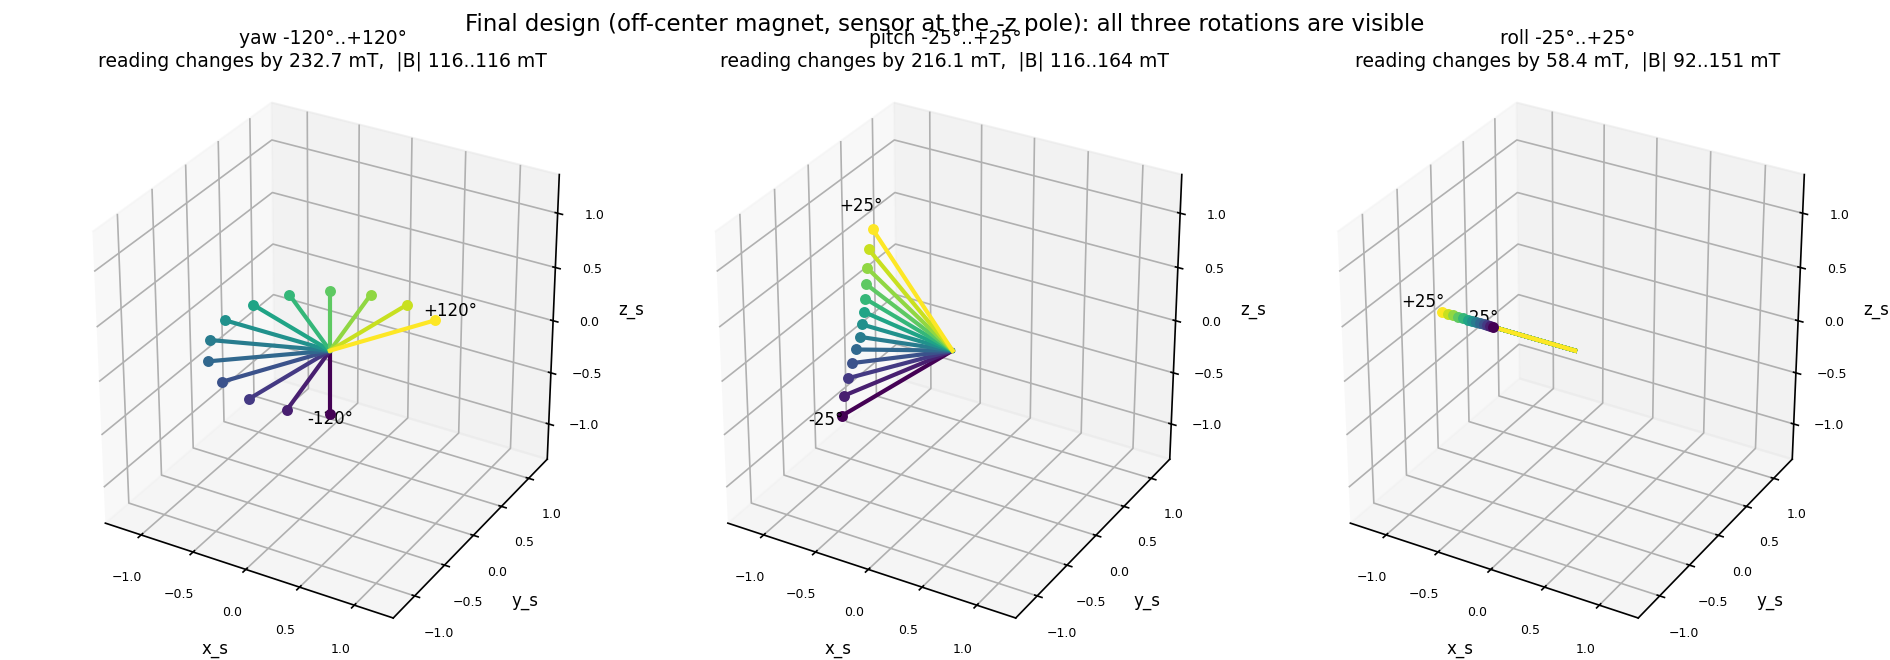
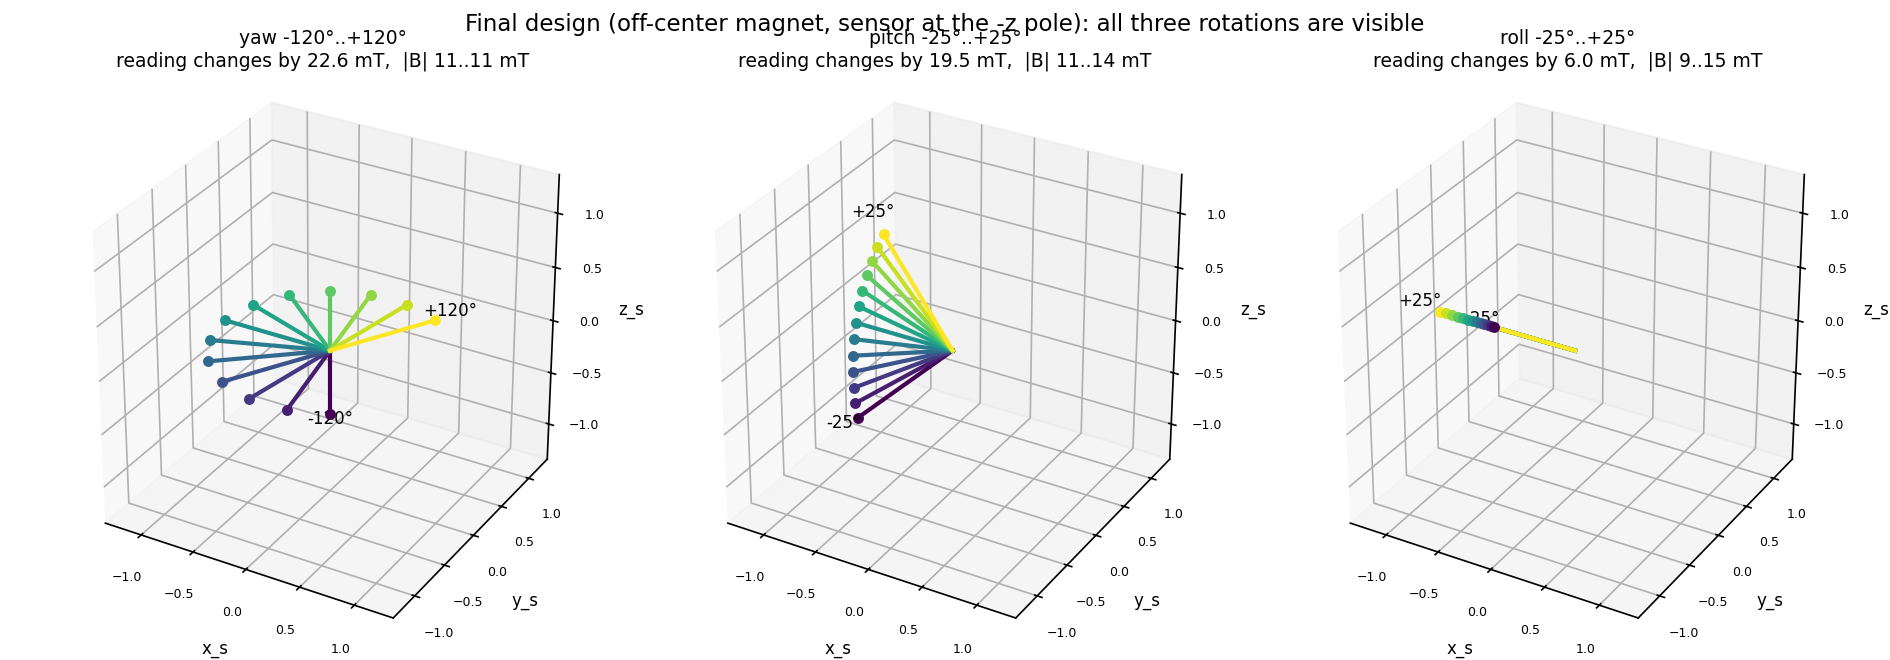
update magnet and distance to sensors, to aligh to reality

diff --git a/estimate_yaw_pitch_roll.py b/estimate_yaw_pitch_roll.py
@@ -2,7 +2,7 @@
 """Estimate yaw, pitch AND roll from two 3-axis magnetic sensor readings.
 
 The idea (see README Q3):
-  - The magnet is glued 0.5 mm OFF-CENTER. A centered magnet's field is
+  - The magnet is glued 3 mm OFF-CENTER. A centered magnet's field is
     perfectly round about its N-S line, so roll would be invisible.
   - TWO sensors are used. One sensor alone has poses where some angle
     combination barely changes its reading; the second sensor covers those.
@@ -27,14 +27,17 @@ from scipy.spatial.transform import Rotation
 from scipy.optimize import least_squares
 
 # ---------------- the hardware, same numbers as the README --------------------
-magnet = magpy.magnet.Cylinder(polarization=(0, 0, 1.2), dimension=(3, 2))
+magnet = magpy.magnet.Cylinder(polarization=(0, 0, 1.2), dimension=(10, 5))
 magnet.rotate_from_angax(90, "y", anchor=(0, 0, 0))   # turn it so N faces +x
-magnet.position = (0, 0.5, 0)                         # 0.5 mm off-center (the trick)
+magnet.position = (0, 3.0, 0)                         # 3 mm off-center (the trick)
 
 # sensor positions at zero angles: the shell's -z and +z poles (optimized
-# placement for this workspace, found by optimize_sensor_placement.py)
-SENSOR_1_HOME = np.array([0.0, 0.0, -np.sqrt(5.0)])
-SENSOR_2_HOME = np.array([0.0, 0.0,  np.sqrt(5.0)])
+# placement for this workspace, found by optimize_sensor_placement.py).
+# 15 mm from the pivot: the Adafruit TLV493D breakout is 25 mm wide, so the
+# chip cannot ride much closer -- and at 15 mm the field stays well inside
+# the sensor's +-130 mT range.
+SENSOR_1_HOME = np.array([0.0, 0.0, -15.0])
+SENSOR_2_HOME = np.array([0.0, 0.0,  15.0])
 
 SENSOR_NOISE = 0.1e-3                          # 0.1 mT of noise per axis
 

diff --git a/make_figures.py b/make_figures.py
@@ -19,7 +19,7 @@ from scipy.spatial.transform import Rotation
 
 
 def make_magnet(offset):
-    m = magpy.magnet.Cylinder(polarization=(0, 0, 1.2), dimension=(3, 2))
+    m = magpy.magnet.Cylinder(polarization=(0, 0, 1.2), dimension=(10, 5))
     m.rotate_from_angax(90, "y", anchor=(0, 0, 0))    # N faces +x
     m.position = offset
     return m
@@ -90,16 +90,16 @@ if __name__ == "__main__":
     os.makedirs("figures", exist_ok=True)
 
     centered = make_magnet((0, 0, 0))
-    offset = make_magnet((0, 0.5, 0))
-    side_sensor = np.array([0.0, -2.0, -1.0])          # the Q1/Q2 sensor
-    pole_sensor = np.array([0.0, 0.0, -np.sqrt(5.0)])  # a final-design sensor
+    offset = make_magnet((0, 3.0, 0))
+    side_sensor = np.array([0.0, -13.4, -6.7])         # the Q1/Q2 sensor (15 mm)
+    pole_sensor = np.array([0.0, 0.0, -15.0])          # a final-design sensor
 
     # Figure 1 (Q1+Q2): centered magnet -- yaw & pitch fan out, roll is frozen
     make_figure([(centered, side_sensor, "yaw", 120),
                  (centered, side_sensor, "pitch", 25),
                  (centered, side_sensor, "roll", 25)],
                 "sweeps_centered_magnet.png",
-                "Centered magnet, one sensor at (0,-2,-1): "
+                "Centered magnet, one sensor at (0,-13.4,-6.7): "
                 "yaw and pitch change the reading, roll does not")
 
     # Figure 2 (Q3): the off-center trick makes roll visible.
@@ -107,7 +107,7 @@ if __name__ == "__main__":
     fig, axes = plt.subplots(1, 2, figsize=(9, 3.6), sharey=True)
     rolls = np.linspace(-25, 25, 51)
     for ax, magnet, label in [(axes[0], centered, "magnet centered"),
-                              (axes[1], offset, "magnet 0.5 mm off-center")]:
+                              (axes[1], offset, "magnet 3 mm off-center")]:
         curves = np.array([reading(magnet, side_sensor, 0, 0, r) for r in rolls]) * 1e3
         for i, name in enumerate(["Bx", "By", "Bz"]):
             ax.plot(rolls, curves[:, i], lw=2, label=name)
@@ -117,7 +117,7 @@ if __name__ == "__main__":
         ax.grid(alpha=0.3)
     axes[0].set_ylabel("reading (mT)")
     axes[0].legend(fontsize=8)
-    fig.suptitle("The same roll sweep, one sensor at (0,-2,-1): "
+    fig.suptitle("The same roll sweep, one sensor at (0,-13.4,-6.7): "
                  "centered = frozen, off-center = visible", fontsize=11)
     fig.tight_layout()
     fig.savefig("figures/roll_centered_vs_offset.png", dpi=150)

diff --git a/magnet_sensor.py b/magnet_sensor.py
@@ -1,7 +1,7 @@
 #!/usr/bin/env python
 """B in the sensor's own frame as the shell YAWS about z (centered magnet).
 
-The sensor starts at (0,-2,-1) and rides the shell through a full yaw turn:
+The sensor starts at (0,-13.4,-6.7) and rides the shell through a full yaw turn:
 its position AND its axes rotate together, so it reads
     B_sensor = Rz^-1 . B_world(Rz . p0).
 Yawing moves the sensor to places with different field, so both the direction
@@ -14,10 +14,10 @@ import magpylib as magpy
 import plotly.graph_objects as go
 from scipy.spatial.transform import Rotation as Rot
 
-magnet = magpy.magnet.Cylinder(polarization=(0, 0, 1.2), dimension=(3, 2))
+magnet = magpy.magnet.Cylinder(polarization=(0, 0, 1.2), dimension=(10, 5))
 magnet.rotate_from_angax(90, "y", anchor=(0, 0, 0))
 
-p0 = np.array([0.0, -2.0, -1.0])                     # sensor start (mm)
+p0 = np.array([0.0, -13.4, -6.7])                    # sensor start (mm)
 angles = np.linspace(0, 360, 73)                     # full turn, 5 deg steps
 Rz = Rot.from_euler("z", angles, degrees=True)
 
@@ -60,7 +60,7 @@ for vec, lab in ([A, 0, 0], "x_s"), ([0, A, 0], "y_s"), ([0, 0, A], "z_s"):
                                hoverinfo="skip"))
 lim = A * 1.05
 fig.update_layout(
-    title="Sensor orbiting about z (start 0,-2,-1) — B in the sensor frame",
+    title="Sensor orbiting about z (start 0,-13.4,-6.7) — B in the sensor frame",
     showlegend=False,
     scene=dict(xaxis=dict(title="x_s (mm)", range=[-lim, lim]),
                yaxis=dict(title="y_s (mm)", range=[-lim, lim]),

diff --git a/estimate_yaw_pitch.py b/estimate_yaw_pitch.py
@@ -21,11 +21,11 @@ from scipy.spatial.transform import Rotation
 from scipy.optimize import least_squares
 
 # ---------------- the hardware ------------------------------------------------
-magnet = magpy.magnet.Cylinder(polarization=(0, 0, 1.2), dimension=(3, 2))
+magnet = magpy.magnet.Cylinder(polarization=(0, 0, 1.2), dimension=(10, 5))
 magnet.rotate_from_angax(90, "y", anchor=(0, 0, 0))   # turn it so N faces +x
 # NOTE: the magnet stays centered at (0,0,0) -- that is WHY roll is invisible.
 
-SENSOR_HOME = np.array([0.0, -2.0, -1.0])   # sensor position at zero angles
+SENSOR_HOME = np.array([0.0, -13.4, -6.7])  # sensor position at zero angles (15 mm)
 SENSOR_NOISE = 0.1e-3                        # 0.1 mT of noise per axis
 
 

diff --git a/README.md b/README.md
@@ -9,10 +9,13 @@ no contact.
 
 | Part | Details |
 |---|---|
-| Magnet | disc 3 mm dia × 2 mm, axially magnetized NdFeB (N on a flat face, ~1.2 T) |
-| Sensors | 2 × Infineon TLV493D, 3-axis, ~0.1 mT noise per axis |
-| Geometry | magnet at the pivot center, N–S line along x; sensors on the shell, 2.24 mm from the pivot |
+| Magnet | disc 10 mm dia × 5 mm, axially magnetized NdFeB N35 (N on a flat face, ~1.2 T) |
+| Sensors | 2 × Infineon TLV493D (Adafruit breakout, ±130 mT range), ~0.1 mT noise per axis |
+| Geometry | magnet at the pivot, N–S line along x; sensors on the shell, 15 mm from the pivot (the breakout board is 25 mm wide, so the chip cannot ride much closer) |
 | Workspace | yaw ±120° (about z), pitch ±25° (about y), roll ±25° (about x = the N–S line) |
+
+The field at the sensors peaks at ~15 mT over the whole workspace — comfortably
+inside the TLV493D's ±130 mT linear range.
 
 ## How everything is verified
 
@@ -49,7 +52,7 @@ changes by 0.0 mT over the whole ±25° sweep.*
 **Yes.** Yaw and pitch move the sensor to places where the field is different,
 so the reading changes and the two angles can be recovered from a single
 sensor's 3 numbers — for any roll, since roll has no effect on them.
-Accuracy in simulation: ~0.1° typical, ~0.4° worst (0.1 mT noise).
+Accuracy in simulation: ~0.4° typical, ~0.8° worst (0.1 mT noise).
 
 *Experiment:* `estimate_yaw_pitch.py` part 2. A 3D view of the reading
 changing along a yaw sweep: `magnet_sensor.py`.
@@ -58,7 +61,7 @@ changing along a yaw sweep: `magnet_sensor.py`.
 
 Two changes, each fixing a different problem:
 
-**1. Mount the magnet off-center** (0.5 mm, perpendicular to the N–S line).
+**1. Mount the magnet off-center** (3 mm, perpendicular to the N–S line).
 The field is round about the line through the magnet's *center* along N–S;
 shifting the magnet moves that line away from the pivot, so no rotation about
 any pivot axis leaves the field unchanged — roll becomes visible.
@@ -70,8 +73,8 @@ dipoles at one point merge into a single tilted dipole — still round).
 ![roll sweep, centered vs off-center magnet](figures/roll_centered_vs_offset.png)
 *The proof of the off-center trick: the same ±25° roll sweep, same sensor.
 Centered magnet (left): every reading component is a flat line — zero
-information. Magnet shifted 0.5 mm (right): the reading now changes by
-13.4 mT across the sweep — 134× the sensor noise, plenty to decode roll.*
+information. Magnet shifted 3 mm (right): the reading now changes by
+1.3 mT across the sweep — 13× the sensor noise, plenty to decode roll.*
 
 **2. Use two sensors.** One sensor gives 3 numbers for 3 unknowns — zero
 margin. It has weak poses (some angle combination barely changes the reading)
@@ -83,8 +86,9 @@ sensitivity metric for the rest — at every pose, the signal (mT per degree) in
 the *quietest* combination of the three angles; expected error ≈ noise /
 sensitivity; a design is judged by its worst pose. A placement-optimization
 study against that metric put the two sensors at the shell's **+z and −z
-poles** (worst case 1.66 mT/° → 0.06° over the whole workspace) and confirmed
-the magnet itself is already at its size/offset limit.
+poles** (worst case 0.17 mT/° → ~0.6° expected over the whole workspace).
+The 10×5 mm magnet is sized for the 15 mm sensor distance: big enough for
+sub-degree signal, small enough to stay far from the sensor's ±130 mT limit.
 
 ## Q4 — The final solution, and how well it works
 
@@ -97,8 +101,8 @@ the magnet itself is already at its size/offset limit.
 
 ![reading under all three sweeps, final design](figures/sweeps_final_design.png)
 *The final geometry (off-center magnet, sensor at the shell's −z pole): now
-every rotation produces a strong change — yaw fans the vector 120°, pitch 83°,
-and roll changes the reading by ~59 mT (it stretches the vector rather than
+every rotation produces a strong change — yaw fans the vector 120°, pitch 91°,
+and roll changes the reading by ~6 mT (it stretches the vector rather than
 turning it, which is why the arrows overlap; the |B| range in the title shows
 the change). No angle is silent anymore.*
 
@@ -107,17 +111,17 @@ Verified in simulation, 0.1 mT noise, whole workspace:
 | Test | Result |
 |---|---|
 | no noise, random poses | exact (0.000°) — no look-alikes anywhere |
-| random poses with noise | ~0.03° median, <0.1° worst |
-| workspace corners, weak-band poses | same as everywhere else |
-| tracking a smooth motion | ~11 ms per estimate (plain Python) |
+| random poses with noise | ~0.45° median, ~1.1° at 95%, ~1.6° worst |
+| workspace corners, weak-band poses | same as everywhere else (~0.46° median) |
+| tracking a smooth motion | ~9 ms per estimate (plain Python) |
 
 ## Limitations
 
-- **Accuracy is proportional to sensor noise**: 0.1 mT → ~0.06°; 0.5 mT → ~0.3°.
-  Averaging N samples improves it by √N.
-- **Field strength exceeds the TLV493D range**: peaks at ~240 mT in this
-  workspace vs ±130 mT linear range. Before building: weaker magnet, larger
-  shell, or a higher-range sensor.
+- **Accuracy is proportional to sensor noise**: 0.1 mT → ~0.45° median,
+  ~1.6° worst. Averaging N samples improves it by √N (4 samples → ~0.2°
+  median). For sub-0.1° accuracy the sensors must ride much closer to a
+  smaller magnet — but then the field exceeds the TLV493D's ±130 mT range
+  (an earlier 2.24 mm design achieved 0.06° on paper and saturated the chip).
 - The simulation assumes a perfect magnet, exact placements, no temperature
   drift, and no iron nearby. Reality differs — see below.
 - Possible upgrade, studied but not adopted: a *diametrally* magnetized disc
@@ -136,7 +140,7 @@ Verified in simulation, 0.1 mT noise, whole workspace:
    code does not change. The leftover mismatch after fitting is a built-in
    health check: if it stays well above sensor noise, something unmodeled is
    present (e.g. a steel screw), or the field model needs extra terms.
-3. **Sensor practicalities**: check saturation first (see Limitations); two
+3. **Sensor practicalities**: two
    TLV493D on one I²C bus need their two addresses set at power-up; average
    4–8 samples per reading; calibrate and operate at similar temperature, or
    let the estimator track a slow field-scale drift.